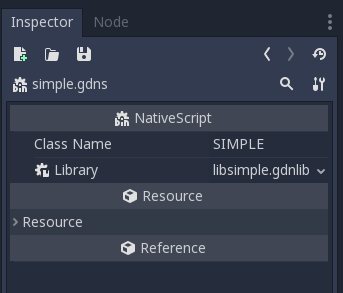
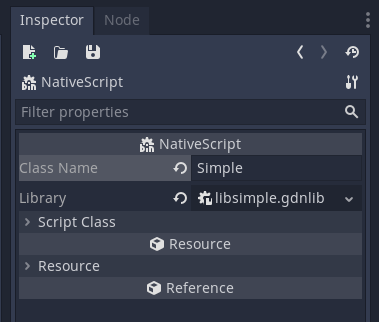
Fixed the image to contain the appropriate class name to avoid getting 'null instance' error

Changed region(s): [[0.0, 0.0, 0.9913, 1.0], [0.379, 0.7372, 0.6122, 0.7986]]

diff --git a/tutorials/plugins/gdnative/gdnative-c-example.rst b/tutorials/plugins/gdnative/gdnative-c-example.rst
@@ -510,6 +510,12 @@ select our ``.gdnlib`` file by clicking on *Library* and selecting *Load*:
 
 .. image:: img/nativescript_library.png
 
+.. note::
+
+    The *Class Name* must have the same spelling as the one given in ``godot_nativescript_init``
+    when registering the class.
+
+   
 Finally, click on the save icon and save this as ``bin/simple.gdns``:
 
 .. image:: img/save_gdns.gif
